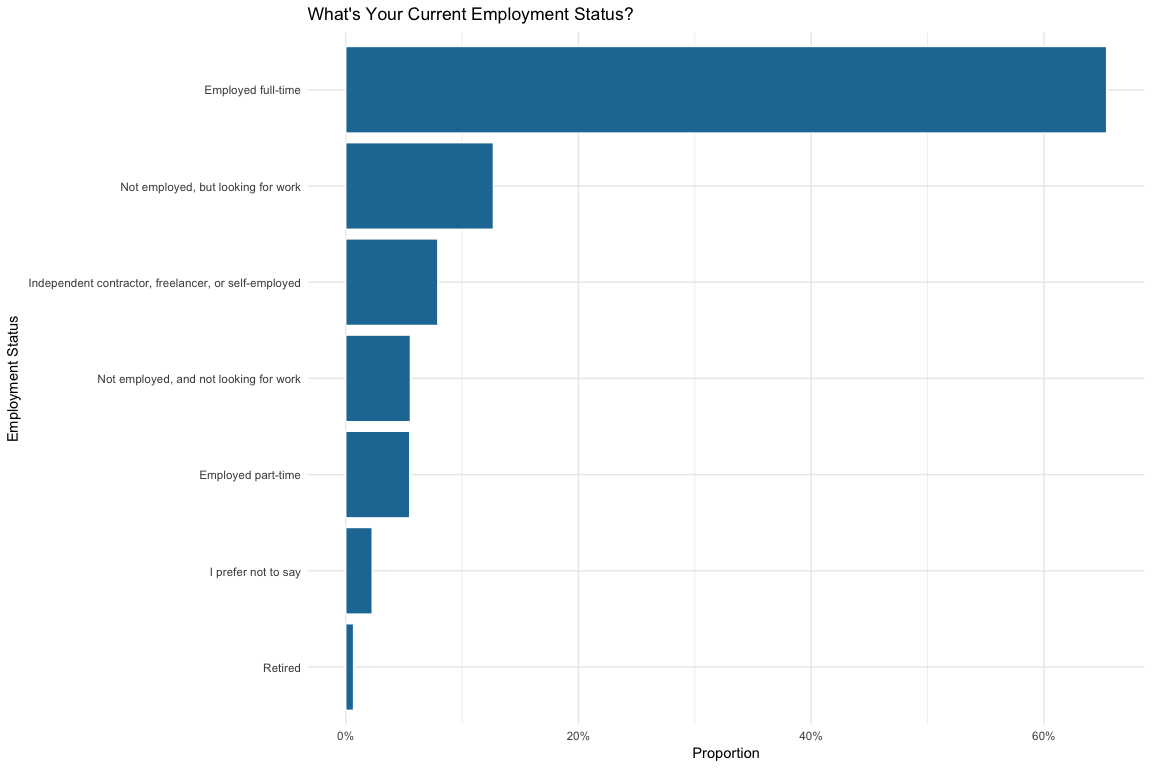
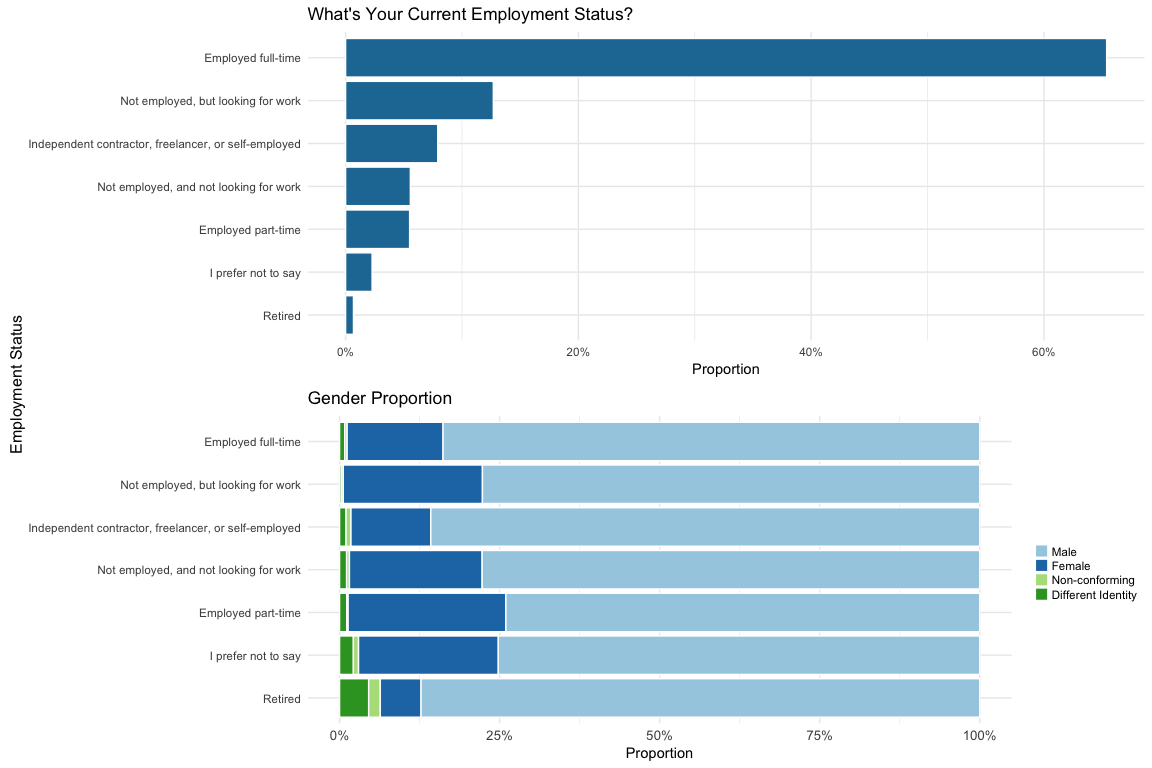
knit doc

diff --git a/analysis.md b/analysis.md
@@ -9,12 +9,14 @@ Load Libraries
 ``` r
 library(tidyverse)
 library(gridExtra)
+library(grid)
 library(scales)
 library(forcats)
 library(rlang)
 library(RColorBrewer)
 library(viridis)
 library(knitr)
+library(gtable)
 ```
 
 Read Data
@@ -46,6 +48,7 @@ clean_MC_data <- filter(clean_MC_data, !is.na(GenderSelect), !is.na(Country), !i
 
 # order country by frequency
 clean_MC_data$Country <- fct_infreq(clean_MC_data$Country)
+clean_MC_data$EmploymentStatus <- fct_infreq(clean_MC_data$EmploymentStatus)
 
 # add factor, levels, and label to Gender MC
 clean_MC_data$GenderSelect <- factor(clean_MC_data$GenderSelect, 
@@ -76,7 +79,7 @@ Response by Country
 
 ``` r
 ggplot(clean_MC_data) +
-  geom_bar(aes(x = fct_infreq(Country), y = ..prop.., group = 1), fill = '#2178a3', color = 'white') +
+  geom_bar(aes(x = Country, y = ..prop.., group = 1), fill = '#2178a3', color = 'white') +
   labs(x = 'Country', y = 'Responses',
        title = 'Survey Responses By Country') +
   scale_y_continuous(labels = percent) +
@@ -126,7 +129,7 @@ Response by Country and Gender
 
 ``` r
 ggplot(clean_MC_data) +
-  geom_bar(aes(x = fct_infreq(Country), fill = GenderSelect), position = 'fill') +
+  geom_bar(aes(x = Country, fill = GenderSelect), position = 'fill') +
   labs(x = 'Country', y = 'Proportion',
        title = 'Survey Responses by Country and Gender') +
   scale_y_continuous(labels = percent) +
@@ -163,7 +166,7 @@ Age Distribution by Gender
 *Ages between 5 and 90; Excluded NA*
 
 ``` r
-ggplot(filter(clean_MC_data, !is.na(Age), !is.na(GenderSelect), Age > 5 & Age < 90)) +
+ggplot(clean_MC_data) +
   geom_histogram(aes(x = Age, y = ..density..), bins = 50, fill = '#2178a3', color = 'white') +
   geom_density(aes(x = Age, color = I('#ee5b4b'))) +
   guides(color = "none") +
@@ -228,14 +231,34 @@ Employment Status
 ``` r
 EmploymentStatus <- MC_group(EmploymentStatus)
 
-ggplot(EmploymentStatus) +
-  geom_col(aes(x = reorder(EmploymentStatus, count), y = percent / 100), fill = '#2178a3', color = 'white') +
+g_employ1 <- ggplot(clean_MC_data) +
+  geom_bar(aes(x = EmploymentStatus, y = ..prop.., group = 1), fill = '#2178a3', 
+          color = 'white') +
   guides(color = "none") +
+  scale_x_discrete(limits = rev(levels(clean_MC_data$EmploymentStatus))) +
   scale_y_continuous(labels = percent) +
   coord_flip() +
-  labs(x = 'Employment Status', y = 'Proportion',
+  labs(x = NULL, y = 'Proportion',
        title = "What's Your Current Employment Status?") +
   theme_minimal()
+
+g_employ2 <- ggplot(clean_MC_data) +
+  geom_bar(aes(x = EmploymentStatus, fill = GenderSelect), position = 'fill', 
+          color = 'white') +
+  guides(color = "none") +
+  scale_x_discrete(limits = rev(levels(clean_MC_data$EmploymentStatus))) +
+  scale_y_continuous(labels = percent) +
+  coord_flip() +
+  labs(x = NULL, y = 'Proportion',
+       title = "Gender Proportion") +
+  scale_fill_brewer(type = 'qual', palette = 3, direction = 1,
+                    guide = guide_legend(title = NULL, keywidth = .75, keyheight = .75), name = 'Gender') +
+  theme_minimal() +
+  theme(legend.position = "right") +
+  theme(axis.text.x = element_text(size = 10))
+
+grid.arrange(g_employ1, g_employ2,
+             left = textGrob('Employment Status', rot = 90, vjust = 1))
 ```
 
 ![](Figs/Employment-1.png)
